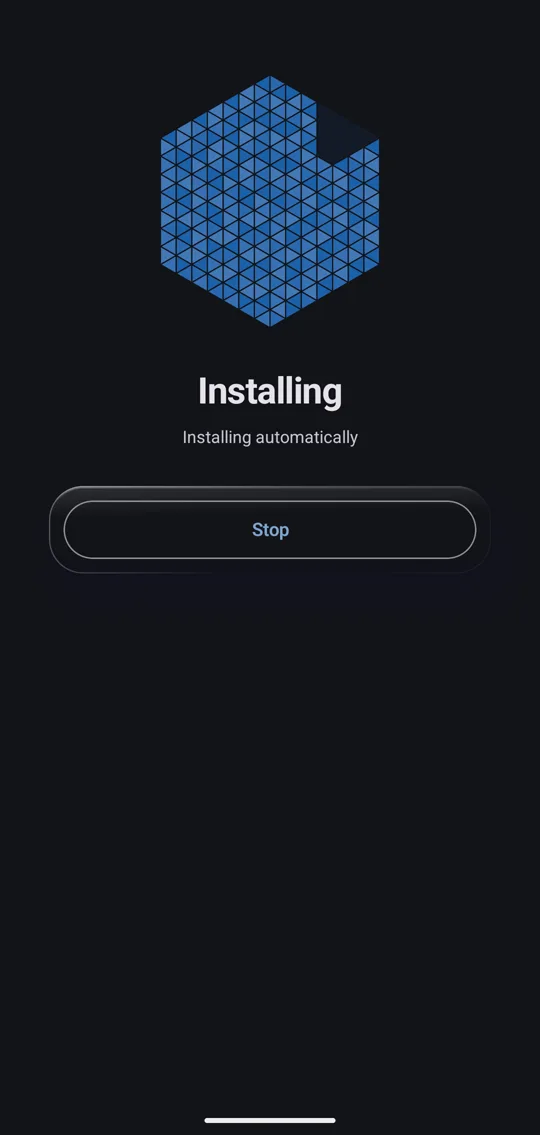
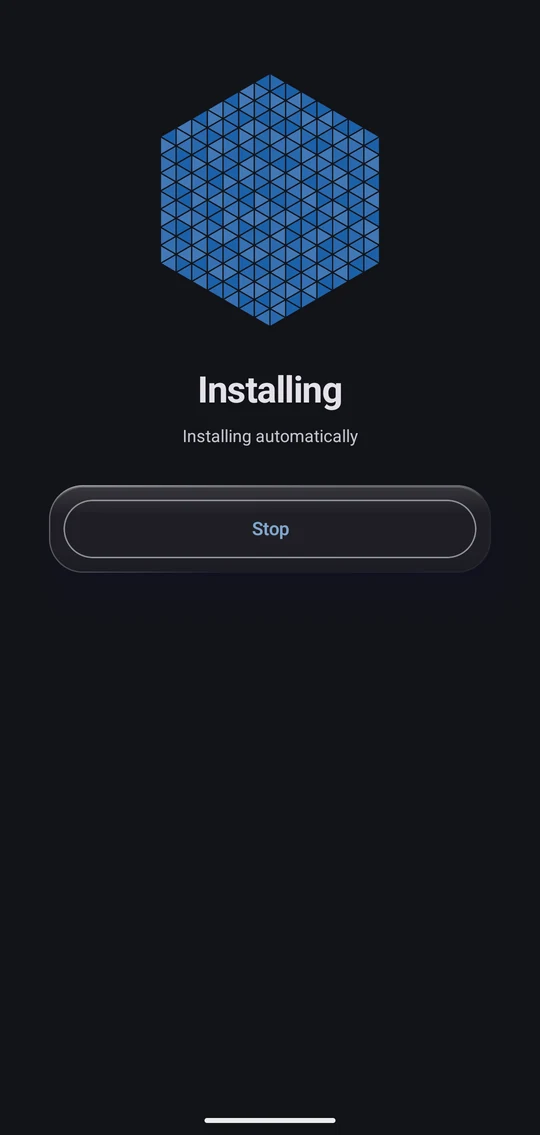
docs: show the new Simple run screens on the project page and in the README
The phone screenshots are real captures from a patch run with the number-free Simple screen. The README images are the same screens on the plain Apple-style poster.

diff --git a/site/index.html b/site/index.html
@@ -86,7 +86,7 @@
       <div class="hero-stage">
         <div class="device hero-device">
           <div class="screen">
-            <img src="assets/shots/run-start.webp" width="540" height="1135" alt="Oru run screen at the start of a patch run. The progress hexagon is nearly empty, and the steps Loading patches and Read APK file are done.">
+            <img src="assets/shots/run-start.webp" width="540" height="1135" alt="Oru run screen at the start of a patch run. A hexagon has just started to fill, above the title Patching and three steps: Preparing, Applying patches and Finishing.">
           </div>
         </div>
       </div>
@@ -97,9 +97,9 @@
 
         <div class="device live-device" aria-hidden="true">
           <div class="screen">
-            <img src="assets/shots/run-start.webp" width="540" height="1135" loading="lazy" decoding="async" style="--a: -1; --b: 0.2" alt="Oru run screen at the start of a patch run, with the progress hexagon nearly empty.">
-            <img src="assets/shots/run-writing.webp" width="540" height="1135" loading="lazy" decoding="async" style="--a: 0.14; --b: 0.5" alt="Oru run screen while the patched app is written. The hexagon is about half full, under the line Writing the patched app.">
-            <img src="assets/shots/run-installing.webp" width="540" height="1135" loading="lazy" decoding="async" style="--a: 0.44; --b: 0.62" alt="Oru run screen during the install. The hexagon is nearly full with a small gap, under the heading Installing, with a Stop button.">
+            <img src="assets/shots/run-start.webp" width="540" height="1135" loading="lazy" decoding="async" style="--a: -1; --b: 0.2" alt="Oru run screen at the start of a patch run, with the hexagon just starting to fill.">
+            <img src="assets/shots/run-writing.webp" width="540" height="1135" loading="lazy" decoding="async" style="--a: 0.14; --b: 0.5" alt="Oru run screen partway through a patch run. The hexagon is about half full, under the title Patching and the line Applying patches.">
+            <img src="assets/shots/run-installing.webp" width="540" height="1135" loading="lazy" decoding="async" style="--a: 0.44; --b: 0.62" alt="Oru run screen during the install. A full hexagon above the title Installing and a Stop button.">
             <img src="assets/shots/run-installed.webp" width="540" height="1135" loading="lazy" decoding="async" style="--a: 0.56; --b: 0.78" alt="Oru run screen after the install. A complete green hexagon with a check mark, labelled Installed.">
             <img src="assets/shots/settings.webp" width="540" height="1135" loading="lazy" decoding="async" style="--a: 0.72; --b: 2" alt="Oru Settings sheet with a Frosted or Clear style choice, an Animations switch, a Language row, an update switch, Free up space and Signing key under Storage and backup, and About and Advanced rows.">
           </div>
@@ -110,7 +110,7 @@
             <figure class="static-shot">
               <div class="device">
                 <div class="screen">
-                  <img src="assets/shots/run-start.webp" width="540" height="1135" loading="lazy" decoding="async" alt="Oru run screen at the start of a patch run. The progress hexagon is nearly empty, and the steps Loading patches and Read APK file are done.">
+                  <img src="assets/shots/run-start.webp" width="540" height="1135" loading="lazy" decoding="async" alt="Oru run screen at the start of a patch run. A hexagon has just started to fill, above the title Patching and three steps: Preparing, Applying patches and Finishing.">
                 </div>
               </div>
             </figure>
@@ -124,7 +124,7 @@
             <figure class="static-shot">
               <div class="device">
                 <div class="screen">
-                  <img src="assets/shots/run-writing.webp" width="540" height="1135" loading="lazy" decoding="async" alt="Oru run screen while the patched app is written. The hexagon is about half full, under the line Writing the patched app.">
+                  <img src="assets/shots/run-writing.webp" width="540" height="1135" loading="lazy" decoding="async" alt="Oru run screen partway through a patch run. The hexagon is about half full, under the title Patching and the line Applying patches.">
                 </div>
               </div>
             </figure>

diff --git a/README.md b/README.md
@@ -24,6 +24,11 @@ Oru is an Android app. It patches apps you already have, on your own device.
 <div align="center">
 
 <picture>
+  <source media="(prefers-color-scheme: dark)" srcset="site/assets/shots/apple-tap-dark.webp">
+  <img src="site/assets/shots/apple-tap-light.webp" width="880" alt="The words One tap. above the top of a phone. Its screen shows a hexagon filling from the bottom under the word Patching, with three steps: Preparing, Applying patches and Finishing.">
+</picture>
+
+<picture>
   <source media="(prefers-color-scheme: dark)" srcset="site/assets/shots/apple-done-dark.webp">
   <img src="site/assets/shots/apple-done-light.webp" width="880" alt="The words Your call. above the top of a phone. Its screen shows a complete green hexagon with a check mark and the word Installed.">
 </picture>
